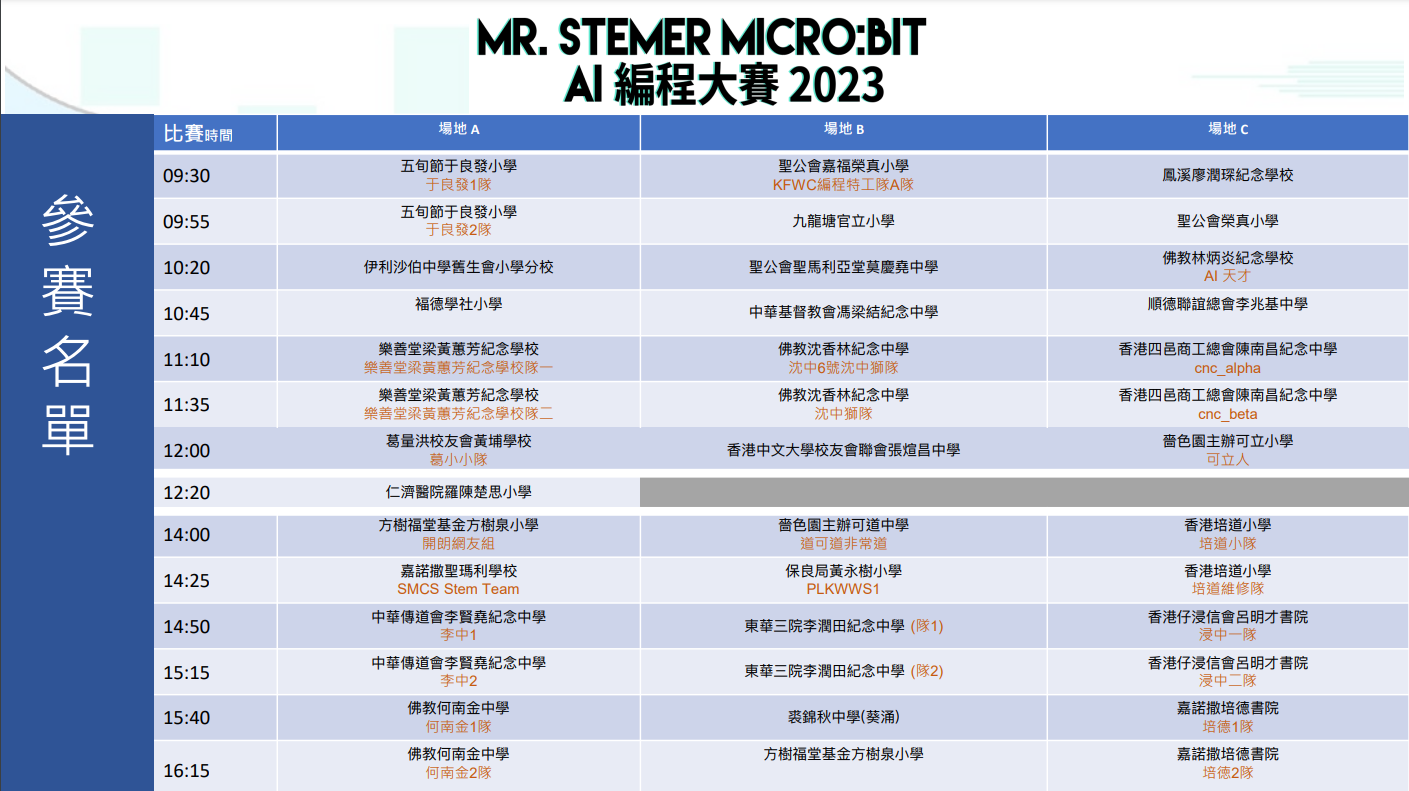
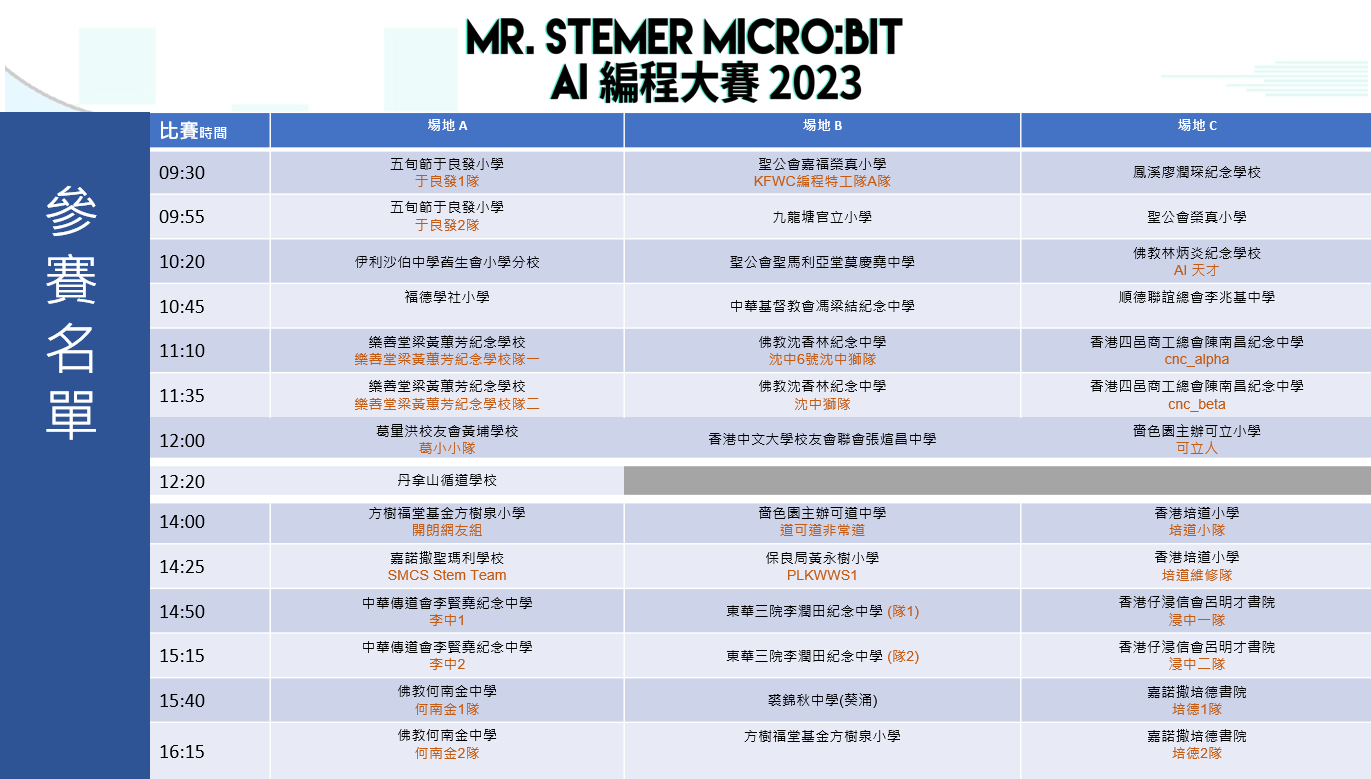
update teams

diff --git a/eitp2023/eitp2023.md b/eitp2023/eitp2023.md
@@ -74,4 +74,4 @@
 
 ## 場次安排
 
-![](./images/timeslots.png)
+![](./images/teams.png)
